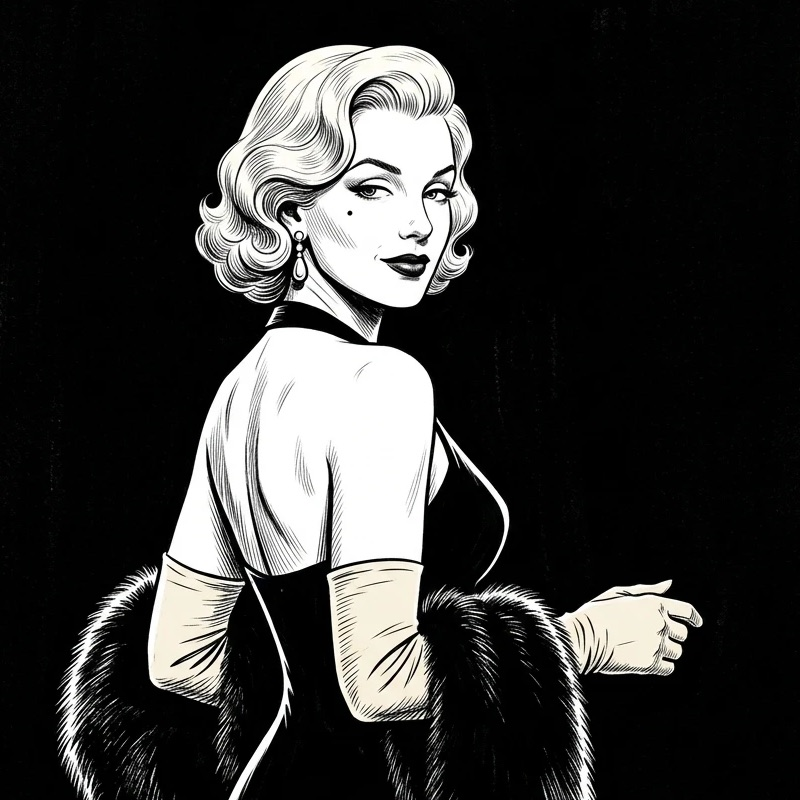
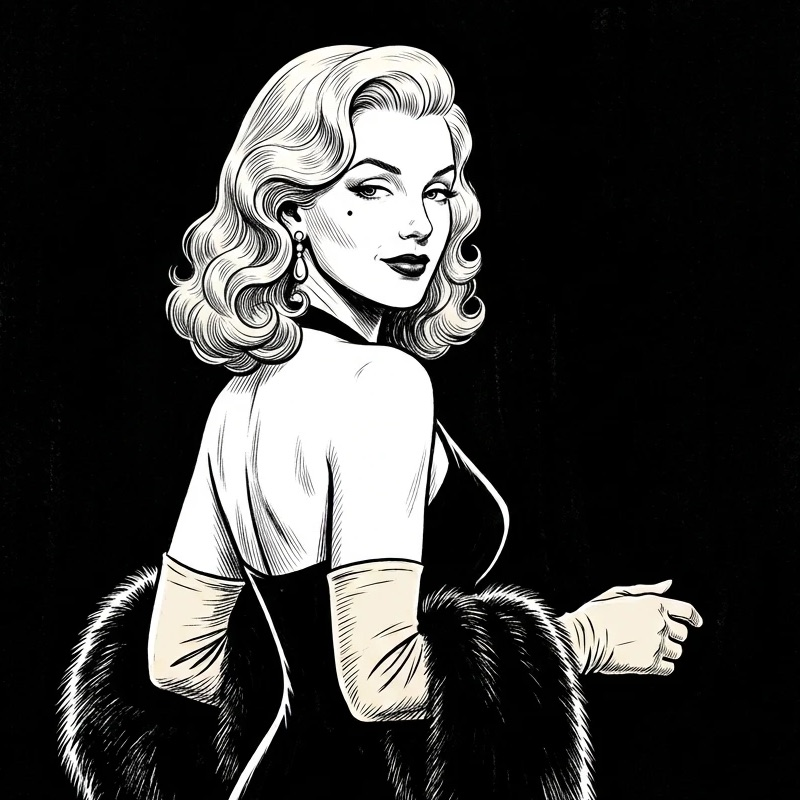
Vera Sinclair's hair settles at shoulder length
Glenn's preferred portrait replaces the short-curl one, and her fixed
look now says shoulder-length soft waves so prompts draw her the same.

diff --git a/the-precinct/theme.js b/the-precinct/theme.js
@@ -38,7 +38,7 @@ export default {
     {
       id: 'femme', name: 'Vera Sinclair', short: 'Vera Sinclair', role: 'The Femme Fatale', tag: 'The one who knows',
       story: 'She admires Frank Rourke, but it is Edward Novak she wants.',
-      look: 'a woman in her thirties, platinum-blonde hair in chin-length 1940s waves, a beauty mark on her cheek, dark lipstick and arched brows, pearl drop earrings, a long black sleeveless evening gown, long pale evening gloves, a black fur stole over one arm, black heels, a cool sideways glance',
+      look: 'a woman in her thirties, shoulder-length platinum-blonde hair in soft 1940s waves, a beauty mark on her cheek, dark lipstick and arched brows, pearl drop earrings, a long black sleeveless evening gown, long pale evening gloves, a black fur stole over one arm, black heels, a cool sideways glance',
       img: IMG + 'ref/vera-card.jpg',
     },
   ],
@@ -102,7 +102,7 @@ export default {
     'fedora':        ['A stern man in a fedora and trench coat, close-up', 'character', 'commissioner'],
     'boss':          ['A heavy-set man with slicked-back hair in a suit, glaring', 'character'],
     'vance-card':    ['A heavy-set older man in a fedora and belted trench coat over a three-piece suit, hands in his pockets, staring coldly out of the dark', 'character', 'commissioner'],
-    'vera-card':     ['A woman with platinum-blonde waves, pearl earrings and a black evening gown, looking back over her shoulder with a knowing smile', 'character', 'femme'],
+    'vera-card':     ['A woman with shoulder-length platinum-blonde waves, pearl earrings and a black evening gown, looking back over her shoulder with a knowing smile', 'character', 'femme'],
     'rourke-card':   ['A huge muscular man in shirtsleeves, braces and a loosened tie, teeth bared around a matchstick, glaring out of the dark', 'character', 'disillusioned'],
     'rourke-front':  ['A huge muscular man in shirtsleeves and braces, a holster at his side and a jacket over his shoulder, scowling', 'character', 'disillusioned'],
     'rourke-snarl':  ['Close-up of a dark-haired man baring his teeth around a cigarette, face half in shadow', 'character', 'disillusioned'],
